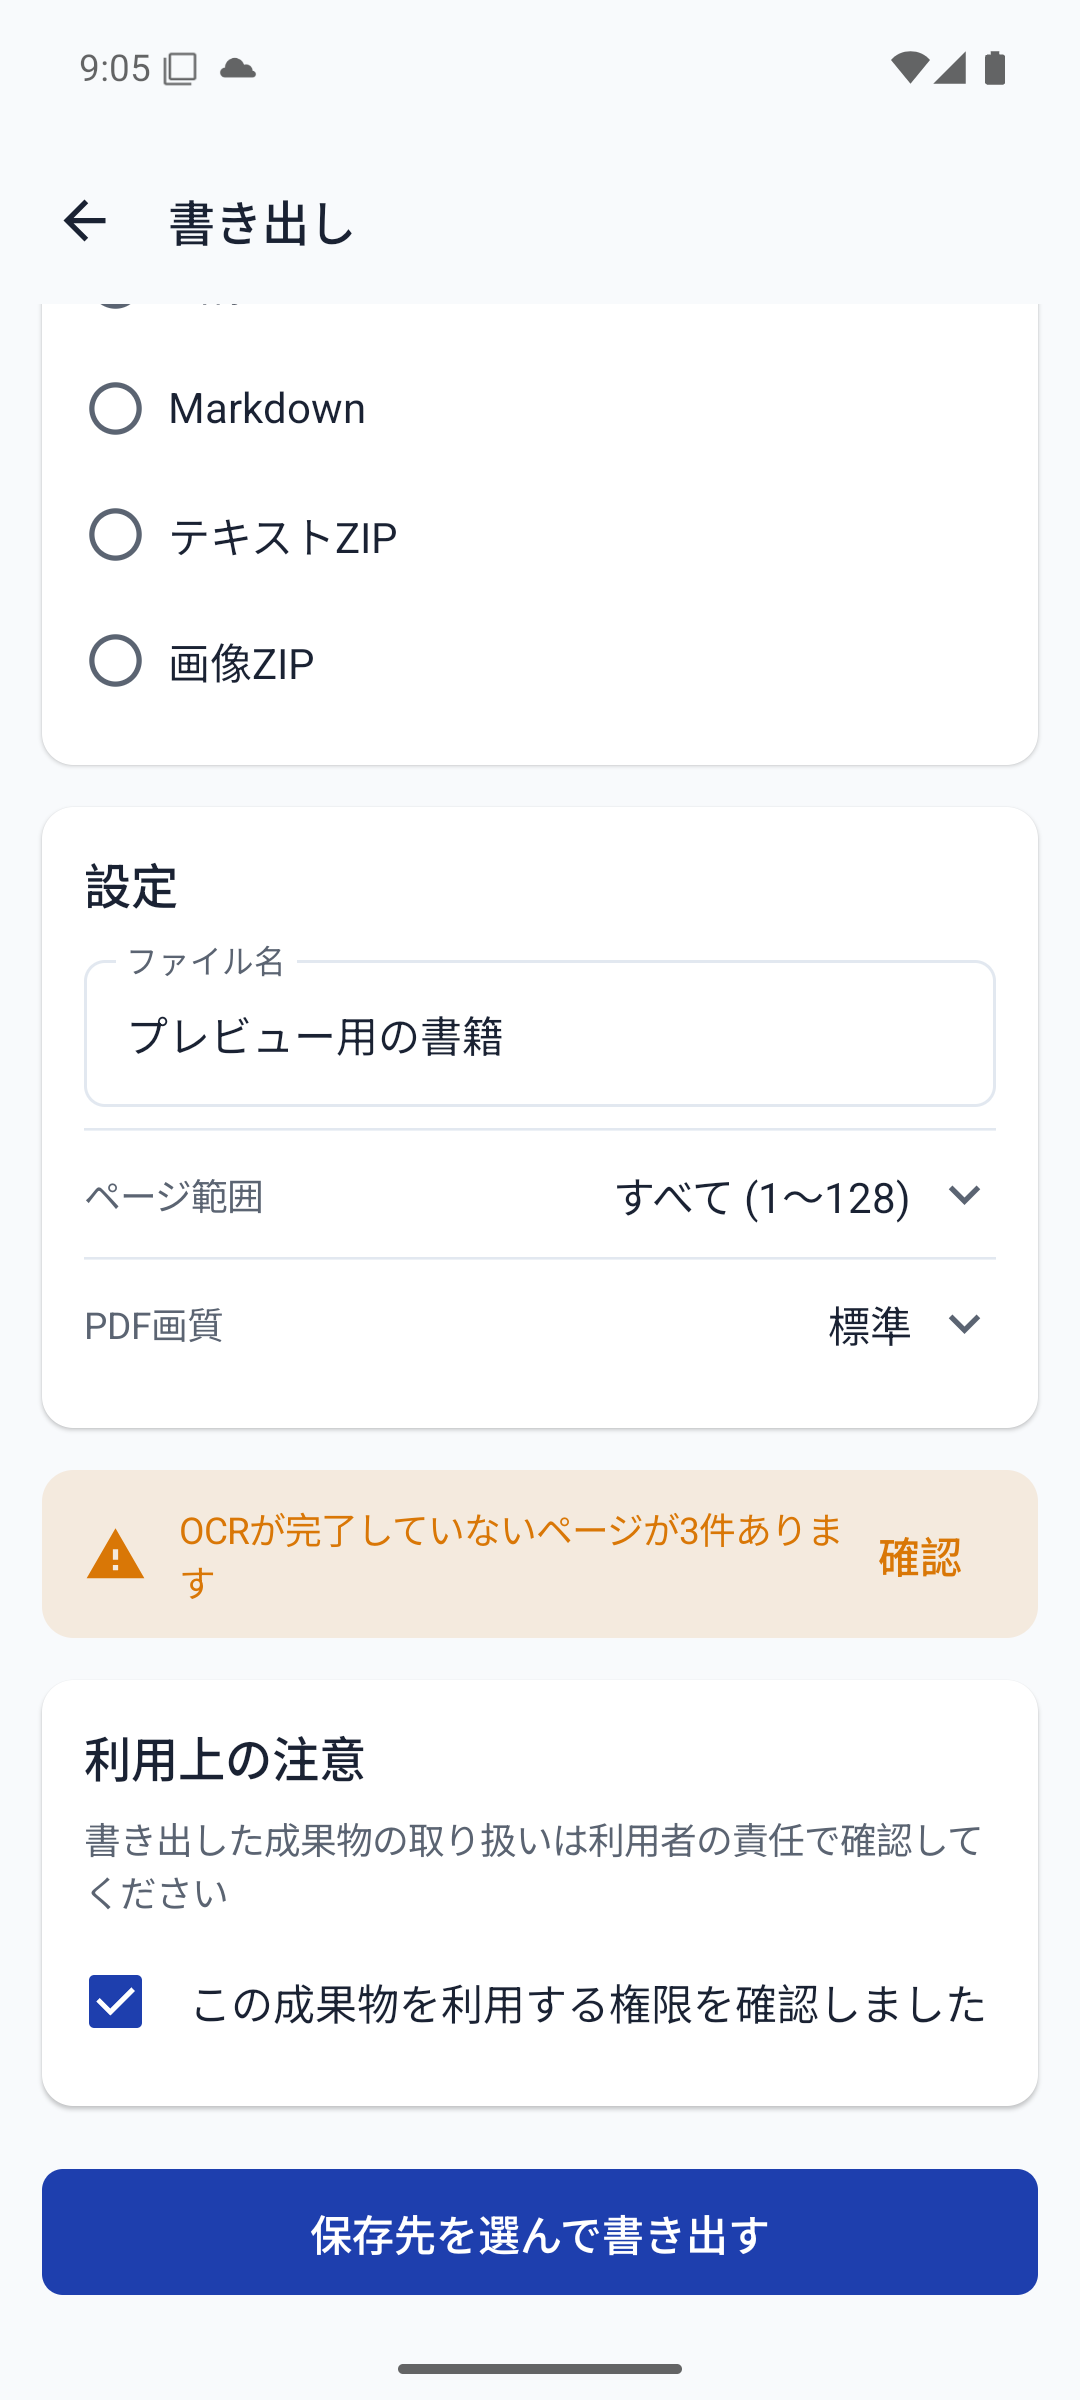
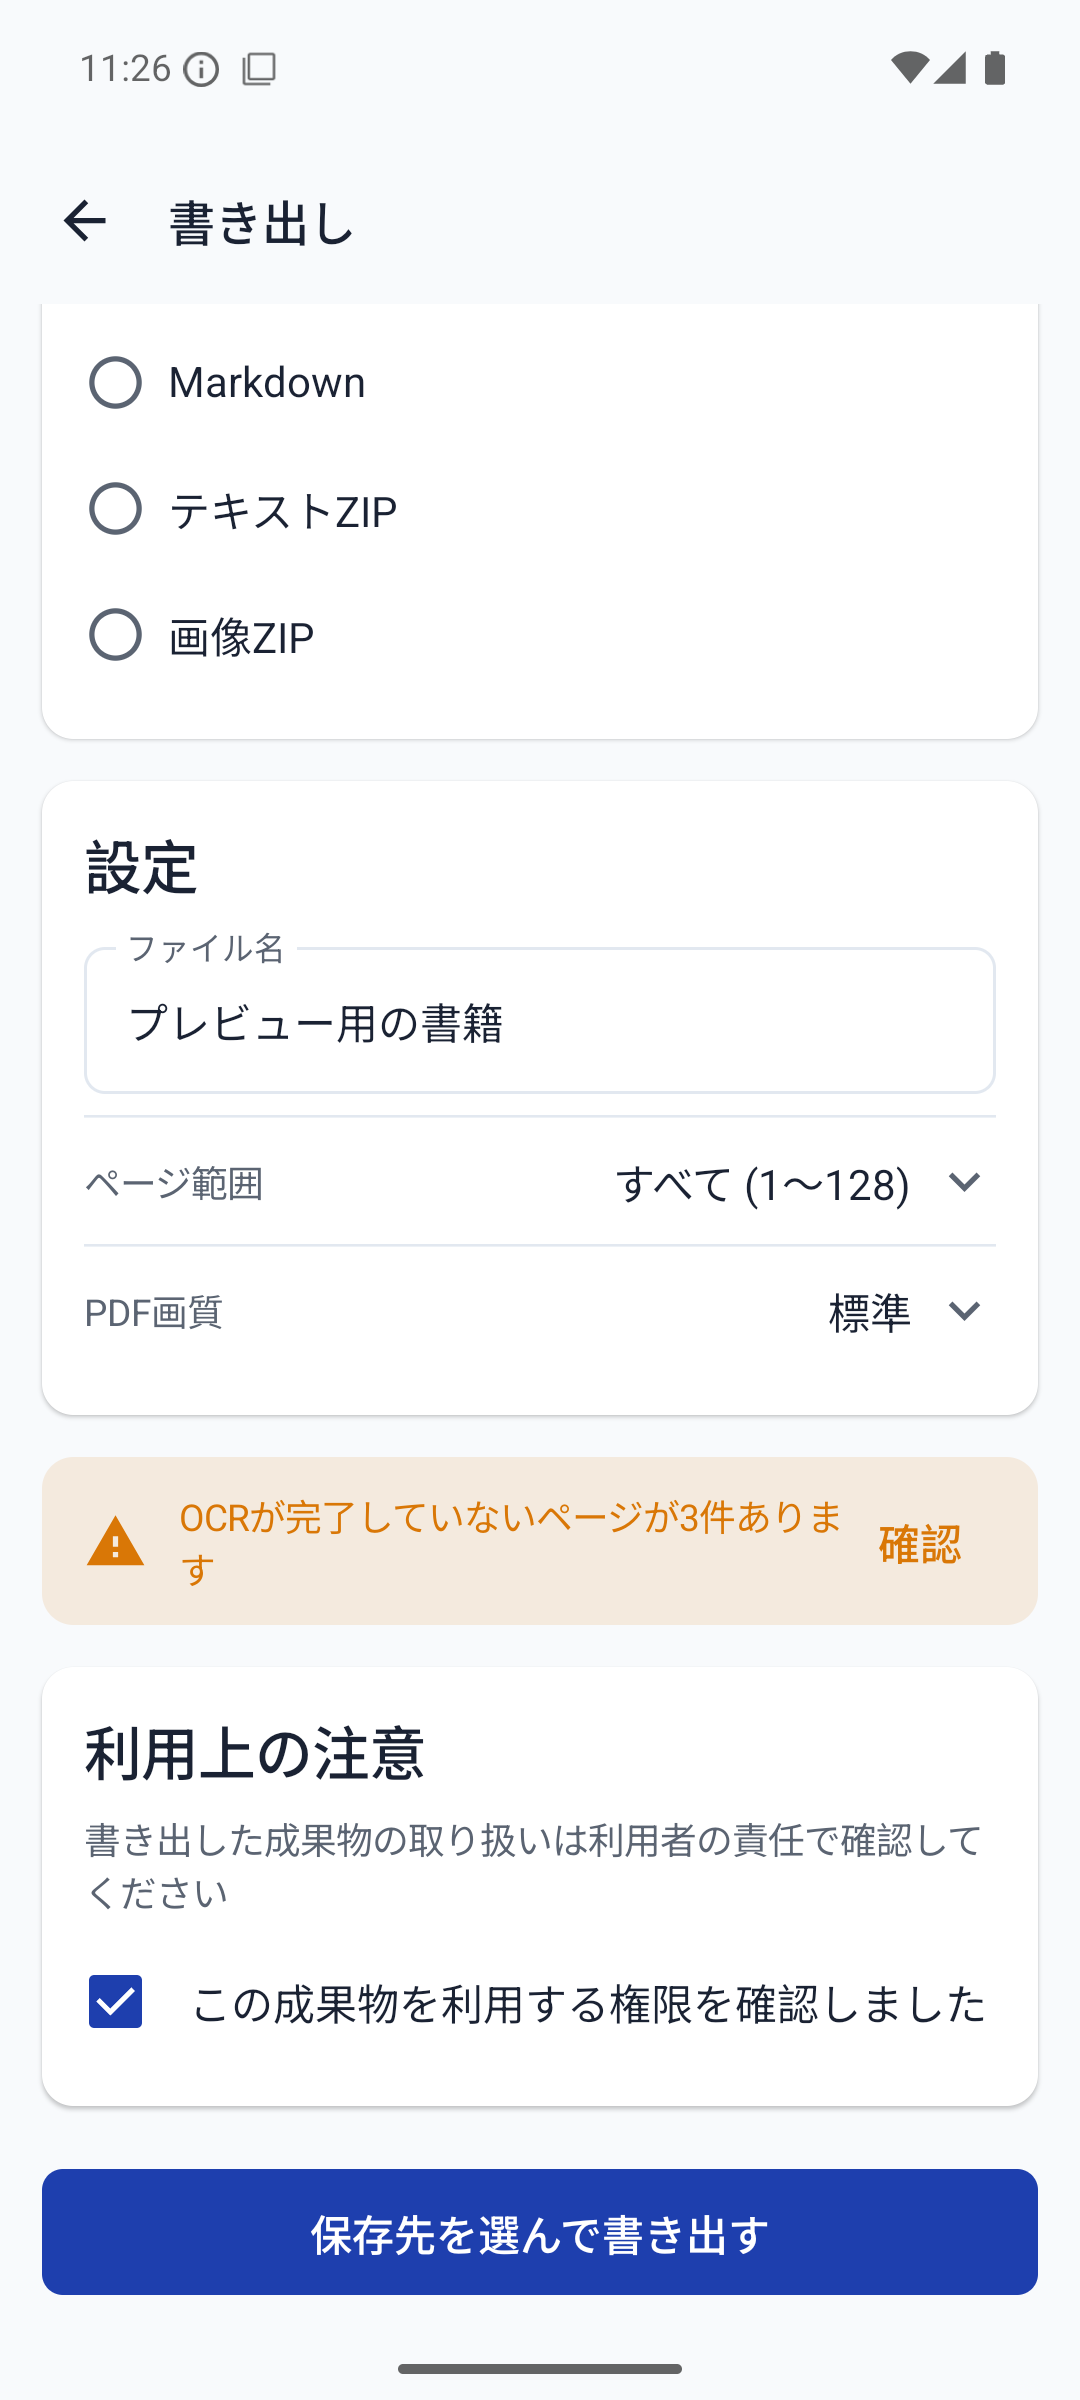
task pagebinder-gph.6: 評価者の残指摘2件を修正（カード見出しトークン・PDF画質の確定）
指摘1: カード見出しが titleLarge(18sp=画面タイトル) だったため、
01-tokens.md「見出し 22sp」に合わせて headlineSmall へ変更。
対象は「出力形式」「設定」（ExportCard）と「利用上の注意」（ExportConsentCard）。
アプリバーの画面タイトルと OCR 警告ダイアログのタイトルは 18sp 規定のため titleLarge を維持。

指摘2: PDF画質の3段階（高画質/標準/軽量・既定は標準）が 2026-08-27 に
ユーザー確定したため、ExportPdfQuality の KDoc から「暫定値」注記を削除し
確定として書き直した。実装値（enum・文字列リソース・既定値 STANDARD）は
確定内容と一致しており変更なし。デザイン仕様 docs/design/11-export.md の
確定記載も同梱。

スクリーンショット docs/design/screenshots/pagebinder-gph.6-export.png を
見出し 22sp の実装画面で撮り直した（emulator-5554 / モックと同じ状態）。

検証: make verify → VERIFY: PASS

diff --git a/app/src/main/java/com/pagebinder/app/domain/ExportOptions.kt b/app/src/main/java/com/pagebinder/app/domain/ExportOptions.kt
@@ -25,13 +25,19 @@ sealed interface ExportPageRange {
 /**
  * PDF の画質。
  *
- * **暫定値**: docs/design/11-export.md「未定事項」に「PDF画質の選択肢と既定値」とあり、
- * specs 側にも列挙が無い。素材に現れる「標準」を既定とし、上下1段ずつを置いた暫定の3段階。
- * 実際の解像度・圧縮率は PDF 実装（docs/specs/10-searchable-pdf.md）側で確定する。
+ * 「高画質 / 標準 / 軽量」の3段階・既定は「標準」（docs/design/11-export.md
+ * コンポーネント一覧「PDF画質」— 2026-08-27 確定）。表示文言は
+ * `export_pdf_quality_high` / `_standard` / `_compact` が持つ。
+ * 実際の解像度・圧縮率は PDF 実装（docs/specs/10-searchable-pdf.md）側で決める。
  */
 enum class ExportPdfQuality(val serializedName: String) {
+    /** 高画質 */
     HIGH("high"),
+
+    /** 標準（既定値。書き出し画面の初期選択） */
     STANDARD("standard"),
+
+    /** 軽量 */
     COMPACT("compact"),
 }
 

diff --git a/app/src/main/java/com/pagebinder/app/ui/export/ExportScreen.kt b/app/src/main/java/com/pagebinder/app/ui/export/ExportScreen.kt
@@ -190,9 +190,11 @@ private fun ExportCard(
         shadowElevation = 1.dp,
     ) {
         Column(modifier = Modifier.padding(ScreenHorizontalMargin)) {
+            // カード見出しは「見出し 22sp」= headlineSmall（docs/design/system/01-tokens.md タイポグラフィ）。
+            // titleLarge(18sp) はアプリバーの画面タイトルとダイアログタイトル用
             Text(
                 text = stringResource(titleRes),
-                style = MaterialTheme.typography.titleLarge,
+                style = MaterialTheme.typography.headlineSmall,
                 color = MaterialTheme.colorScheme.onSurface,
             )
             Spacer(modifier = Modifier.height(SpaceUnit))

diff --git a/app/src/main/java/com/pagebinder/app/ui/export/ExportConsentCard.kt b/app/src/main/java/com/pagebinder/app/ui/export/ExportConsentCard.kt
@@ -54,9 +54,10 @@ fun ExportConsentCard(
         shadowElevation = 1.dp,
     ) {
         Column(modifier = Modifier.padding(ScreenHorizontalMargin)) {
+            // カード見出しは「見出し 22sp」= headlineSmall（docs/design/system/01-tokens.md タイポグラフィ）
             Text(
                 text = stringResource(R.string.export_consent_title),
-                style = MaterialTheme.typography.titleLarge,
+                style = MaterialTheme.typography.headlineSmall,
                 color = MaterialTheme.colorScheme.onSurface,
             )
             Spacer(modifier = Modifier.height(SpaceUnit))

diff --git a/docs/design/11-export.md b/docs/design/11-export.md
@@ -35,7 +35,7 @@
 | 出力形式ラジオ | 検索可能PDF / 画像PDF / Markdown / テキストZIP / 画像ZIP | 素材は検索可能PDF選択。spec §3.1 の5形式（searchable_pdf / image_pdf / markdown / text_zip / image_zip）と1対1 |
 | ファイル名 | ラベル「ファイル名」/ 値例「実践Kotlinプログラミング」 | 初期値=書籍タイトル（**推測**） |
 | ページ範囲 | ページ範囲 / 例「すべて (1〜128)」▼ | ページ範囲指定はMVP確定（spec §3.2）。**範囲指定の入力UIは未定** |
-| PDF画質 | PDF画質 / 例「標準」▼ | 選択肢は**未定**（素材・specに列挙なし — 要確認） |
+| PDF画質 | PDF画質 / 例「標準」▼ | 選択肢は「高画質/標準/軽量」の3段階・既定は「標準」（**2026-08-27 ユーザー確定**） |
 | OCR未完了警告 | OCRが完了していないページが3件あります / アクション「確認」 | FR-EXP-009。件数は動的。「確認」の遷移先は**推測**: 該当ページ一覧（07 か 09） |
 | 利用上の注意 | 書き出した成果物の取り扱いは利用者の責任で確認してください | |
 | 権限確認チェック | この成果物を利用する権限を確認しました | **文言は spec 12 §3.2 の確定文言と一致（言い換え禁止）**。チェックなしで書き出し不可 |
@@ -52,5 +52,4 @@
 - **進捗表示**（線形プログレス+パーセント+内容+キャンセル — system/02 規定はあるが画面素材なし。インベントリの「進捗」状態が未生成）
 - 成功・失敗の結果表示 — 素材なし
 - ページ範囲指定の入力UI（ドロップダウン展開後）— 素材なし
-- PDF画質の選択肢と既定値 — 素材は「標準」のみ
 - チェック未チェック時のボタン無効表現 — 素材はチェック済みのみ
